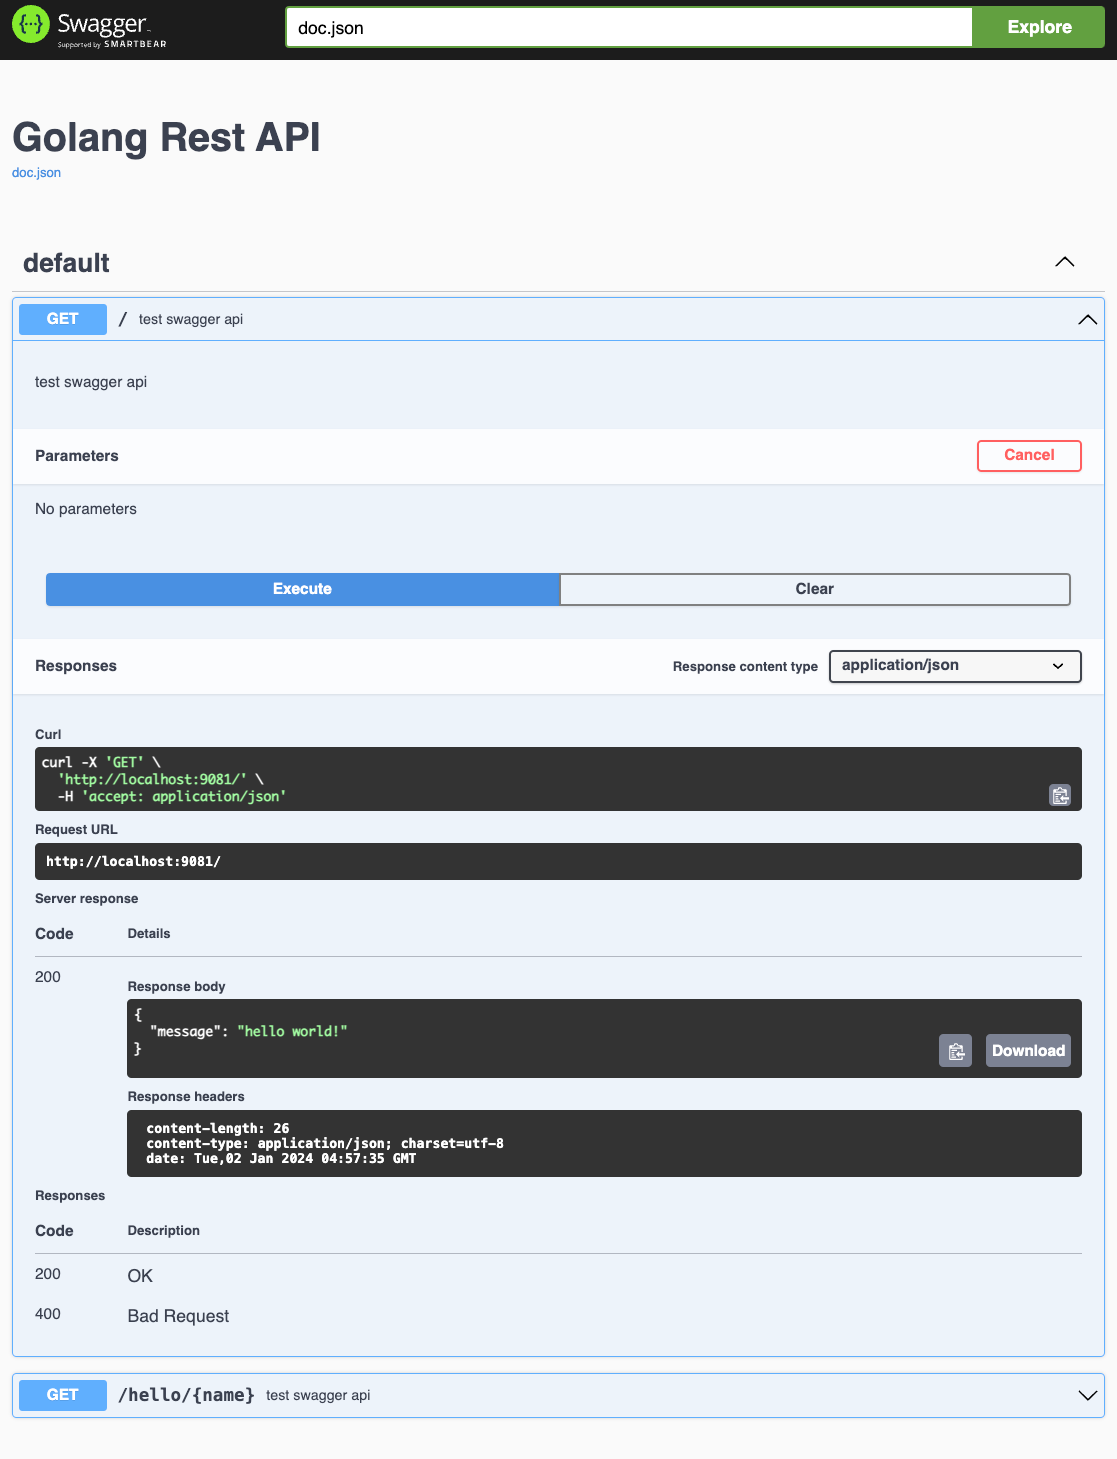
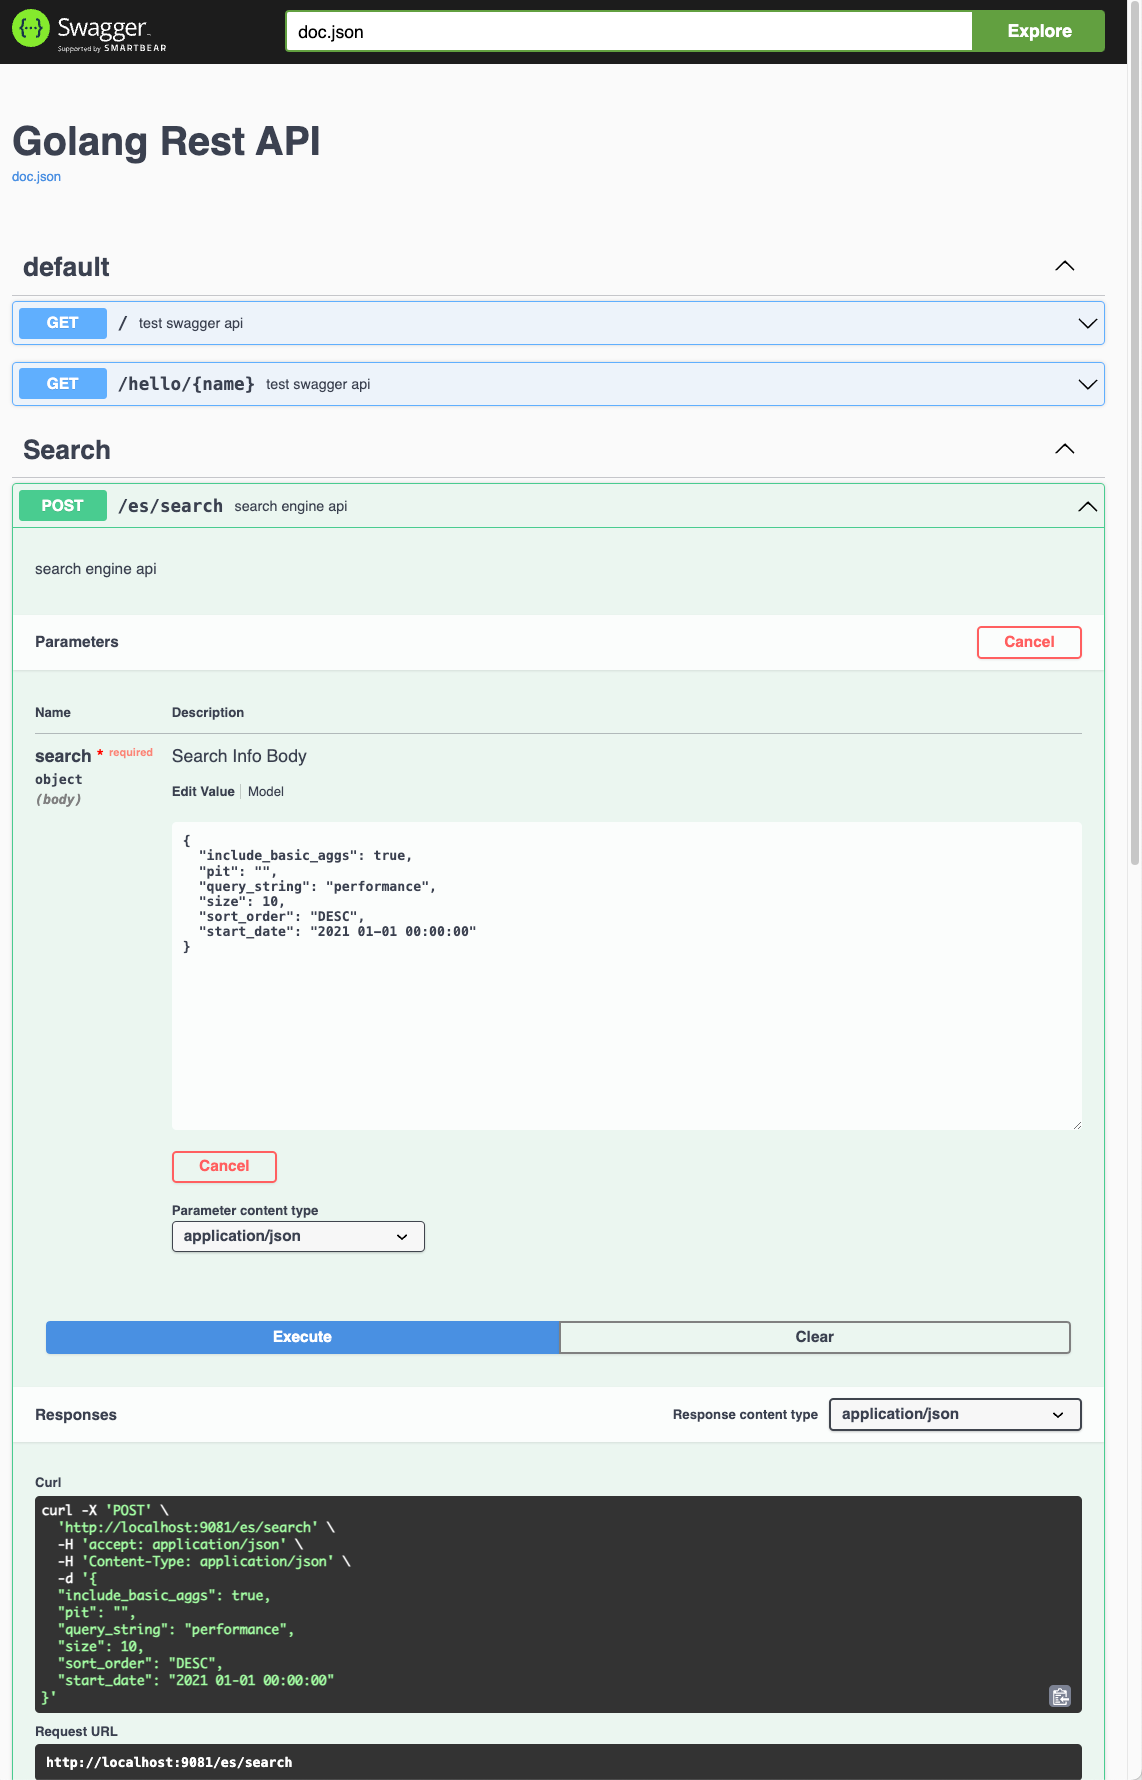
Add api for es instance health

diff --git a/swagger_controller/search_controller.go b/swagger_controller/search_controller.go
@@ -1,11 +1,14 @@
 package controller
 
 import (
+	"context"
 	"go-search_engine/repository"
+	"io"
 	"log"
 	"net/http"
 	"os"
 	"reflect"
+	"strings"
 	"time"
 
 	my_elasticsearch "go-search_engine/lib/elasticsearch"
@@ -52,8 +55,20 @@ func HealthHandler(c *gin.Context) {
 		return
 	}
 	
-	log.Println(res)
-	c.JSON(http.StatusOK, gin.H{"message": res})
+	if res.StatusCode == 200 {
+		log.Println(res, reflect.TypeOf(res))
+	}
+	
+	body, _ := io.ReadAll(res.Body)
+	response_json := util.Uint8_to_Map(body)
+	log.Println("Uint8_to_Map type - ", reflect.TypeOf(response_json))
+	log.Printf("Json : %s, parsing : %s, %s", response_json, response_json["cluster_name"])
+	
+	// var jsonMap map[string]interface{}
+	// json.Unmarshal([]byte(string(body) ), &jsonMap)
+	
+	// c.JSON(http.StatusOK, gin.H{"message": response_json})
+	c.JSON(http.StatusOK, response_json)
 }
 
 // SearchHandler godoc
@@ -89,7 +104,43 @@ func SearchHandler(c *gin.Context) {
 	// c.JSON(http.StatusOK, gin.H{"message": "success"})
 	log.Printf("Parsing :  %s", reflect.TypeOf(search))
 	log.Printf("Excuting Time :  %s", latencyTime)
-	c.JSON(http.StatusOK, gin.H{"message": search})
+	
+	
+	es_host := util.Set_Env(os.Getenv("ES_HOST"), "http://localhost:9209")
+	es_client := my_elasticsearch.Get_es_instance(es_host)
+	
+	query := `{
+		"track_total_hits" : true,
+		"query": {
+			"match_all" : {}
+		},
+		"size": 2
+	}`
+	
+	ctx := context.Background()
+	
+	// var b strings.Builder
+	// b.WriteString(query)
+	// read := strings.NewReader(b.String())
+    res, err := es_client.Search(
+		es_client.Search.WithContext(ctx),
+		es_client.Search.WithIndex("test_performance_metrics_v1"),
+		es_client.Search.WithBody(strings.NewReader(query)),
+		es_client.Search.WithTrackTotalHits(true),
+		es_client.Search.WithPretty(),
+		es_client.Search.WithFrom(0),
+		es_client.Search.WithSize(1000),
+	)
+	if err != nil {
+		log.Fatalf("ERROR: %s", err)
+	}
+	log.Println(res)
+	defer res.Body.Close()
+	
+	body, _ := io.ReadAll(res.Body)
+	response_json := util.Uint8_to_Map(body)
+	
+	c.JSON(http.StatusOK, response_json)
 }
 
 

diff --git a/docs/docs.go b/docs/docs.go
@@ -89,7 +89,7 @@ const docTemplate = `{
         },
         "/health": {
             "get": {
-                "description": "search engine api",
+                "description": "search engine health",
                 "consumes": [
                     "application/json"
                 ],
@@ -99,7 +99,7 @@ const docTemplate = `{
                 "tags": [
                     "Search"
                 ],
-                "summary": "search engine api",
+                "summary": "search engine health",
                 "responses": {
                     "200": {
                         "description": "OK",
@@ -173,20 +173,29 @@ const docTemplate = `{
         "repository.Search": {
             "type": "object",
             "properties": {
-                "age": {
-                    "description": "Age",
+                "include_basic_aggs": {
+                    "type": "boolean",
+                    "example": true
+                },
+                "pit": {
+                    "type": "string",
+                    "example": ""
+                },
+                "query_string": {
+                    "type": "string",
+                    "example": "performance"
+                },
+                "size": {
                     "type": "integer",
                     "example": 10
                 },
-                "id": {
-                    "description": "UserId",
-                    "type": "integer",
-                    "example": 1
-                },
-                "name": {
-                    "description": "Name",
+                "sort_order": {
                     "type": "string",
-                    "example": "John"
+                    "example": "DESC"
+                },
+                "start_date": {
+                    "type": "string",
+                    "example": "2021 01-01 00:00:00"
                 }
             }
         }

diff --git a/repository/model.go b/repository/model.go
@@ -10,11 +10,13 @@ var (
 )
 
 type Search struct {
-	Id   int    `json:"id" example:"1"`      // UserId
-	Name string `json:"name" example:"John"` // Name
-	Age  int    `json:"age" example:"10"`    // Age
-}
-
+	Include_basic_aggs bool `json:"include_basic_aggs" example:"true"` 
+	Pit string `json:"pit" example:""`
+	Query_string string `json:"query_string" example:"performance"`
+	Size   int    `json:"size" example:"10"`
+	Sort_order string `json:"sort_order" example:"DESC"`
+	Start_date string `json:"start_date" example:"2021 01-01 00:00:00"`
+}	
 
 type APIError struct {
 	ErrorCode    int
